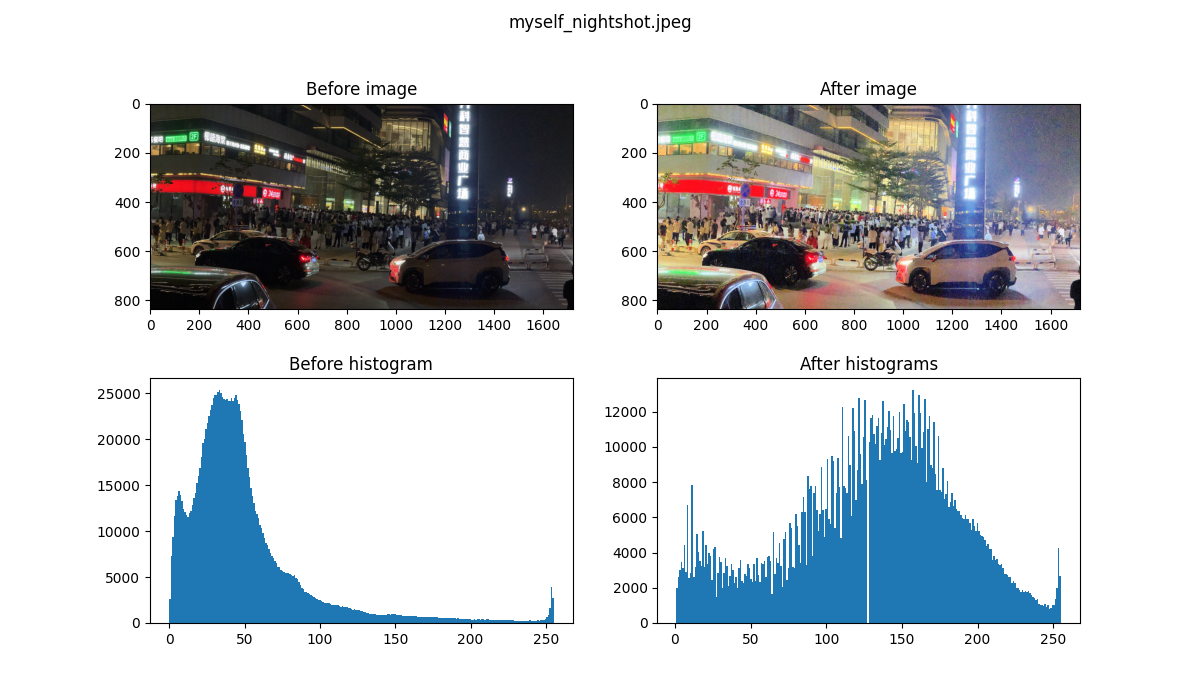
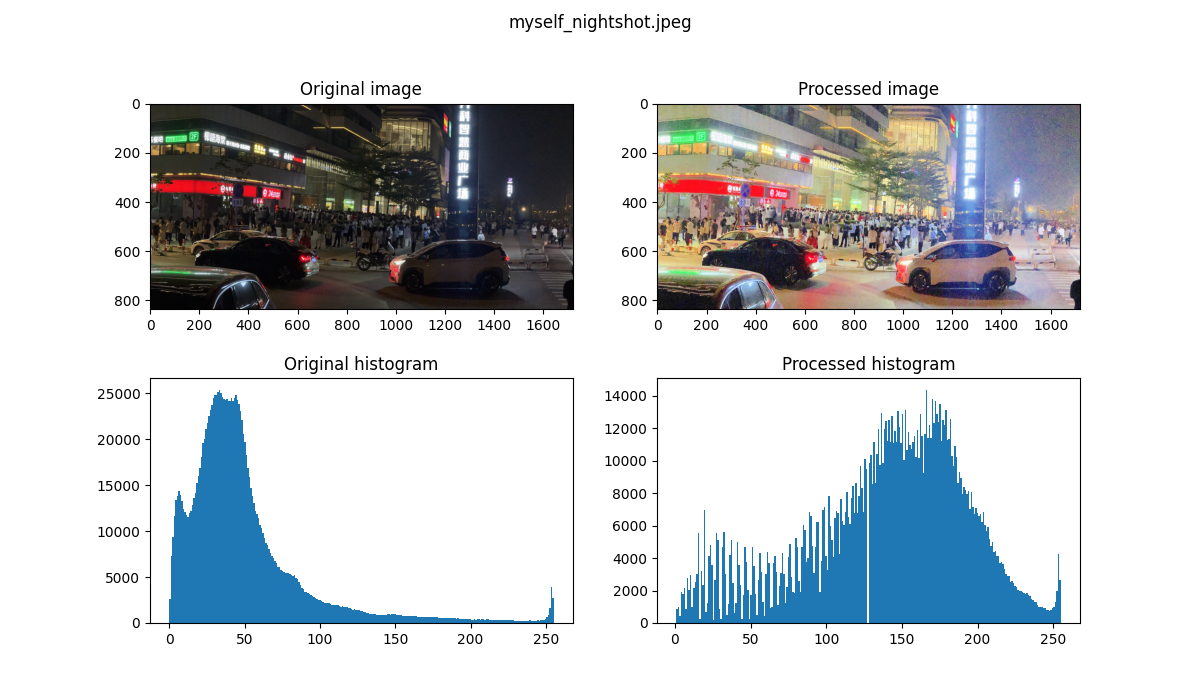
Change diaplay title

diff --git a/functions/display_effect.py b/functions/display_effect.py
@@ -11,13 +11,13 @@ def display_effect(img_before, img_after, title):
     fig.set_size_inches(12, 7)
     fig.suptitle(title)
     ax[0, 0].imshow(cv.cvtColor(img_before, cv.COLOR_BGR2RGB))
-    ax[0, 0].set_title('Before image')
+    ax[0, 0].set_title('Original image')
     ax[0, 1].imshow(cv.cvtColor(img_after, cv.COLOR_BGR2RGB))
-    ax[0, 1].set_title('After image')
+    ax[0, 1].set_title('Processed image')
     ax[1, 0].hist(cv.cvtColor(img_before, cv.COLOR_BGR2GRAY).flatten(), bins=256)
-    ax[1, 0].set_title('Before histogram')
+    ax[1, 0].set_title('Original histogram')
     ax[1, 1].hist(cv.cvtColor(img_after, cv.COLOR_BGR2GRAY).flatten(), bins=256)
-    ax[1, 1].set_title('After histograms')
+    ax[1, 1].set_title('Processed histogram')
     # plt.show()
     plt.show(block=False)
     # Save the figure
